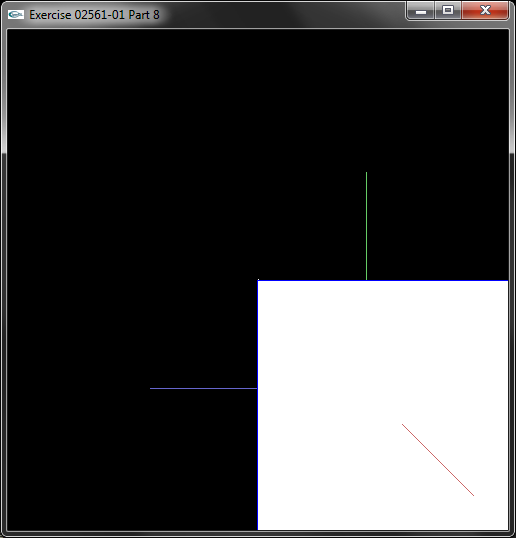
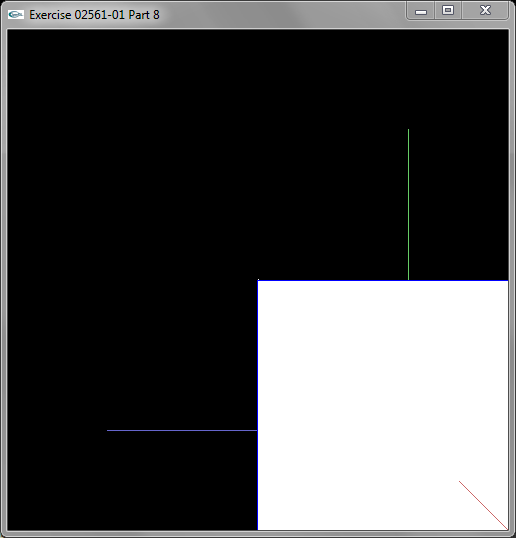
Finalized 1.8.1

Changed region(s): [[0.0, 0.0, 1.0, 1.0]]

diff --git a/exercise1/part8/part8-1.cpp b/exercise1/part8/part8-1.cpp
@@ -48,7 +48,7 @@ void reshape (int w, int h) {
     glViewport (0, 0, (GLsizei) w, (GLsizei) h);
     glMatrixMode (GL_PROJECTION);
     glLoadIdentity ();
-		gluPerspective(60.0, (GLsizei) w / (GLsizei) h, 10.0, 10000000.0);
+		gluPerspective(45.0, (GLsizei) w / (GLsizei) h, 10.0, 10000000.0);
     glMatrixMode (GL_MODELVIEW);
 }
 
@@ -67,9 +67,9 @@ void display (void) {
 
 	//glTranslatef(-5., -5., 5.);
    glColor3f (0.,0.,1.);
-   glutWireCube (5.);
+   glutWireCube (2.);
    glColor3f (1.,1.,1.); 
-   glutSolidCube (5.);
+   glutSolidCube (2.);
 
     glPopMatrix();
     axis();
